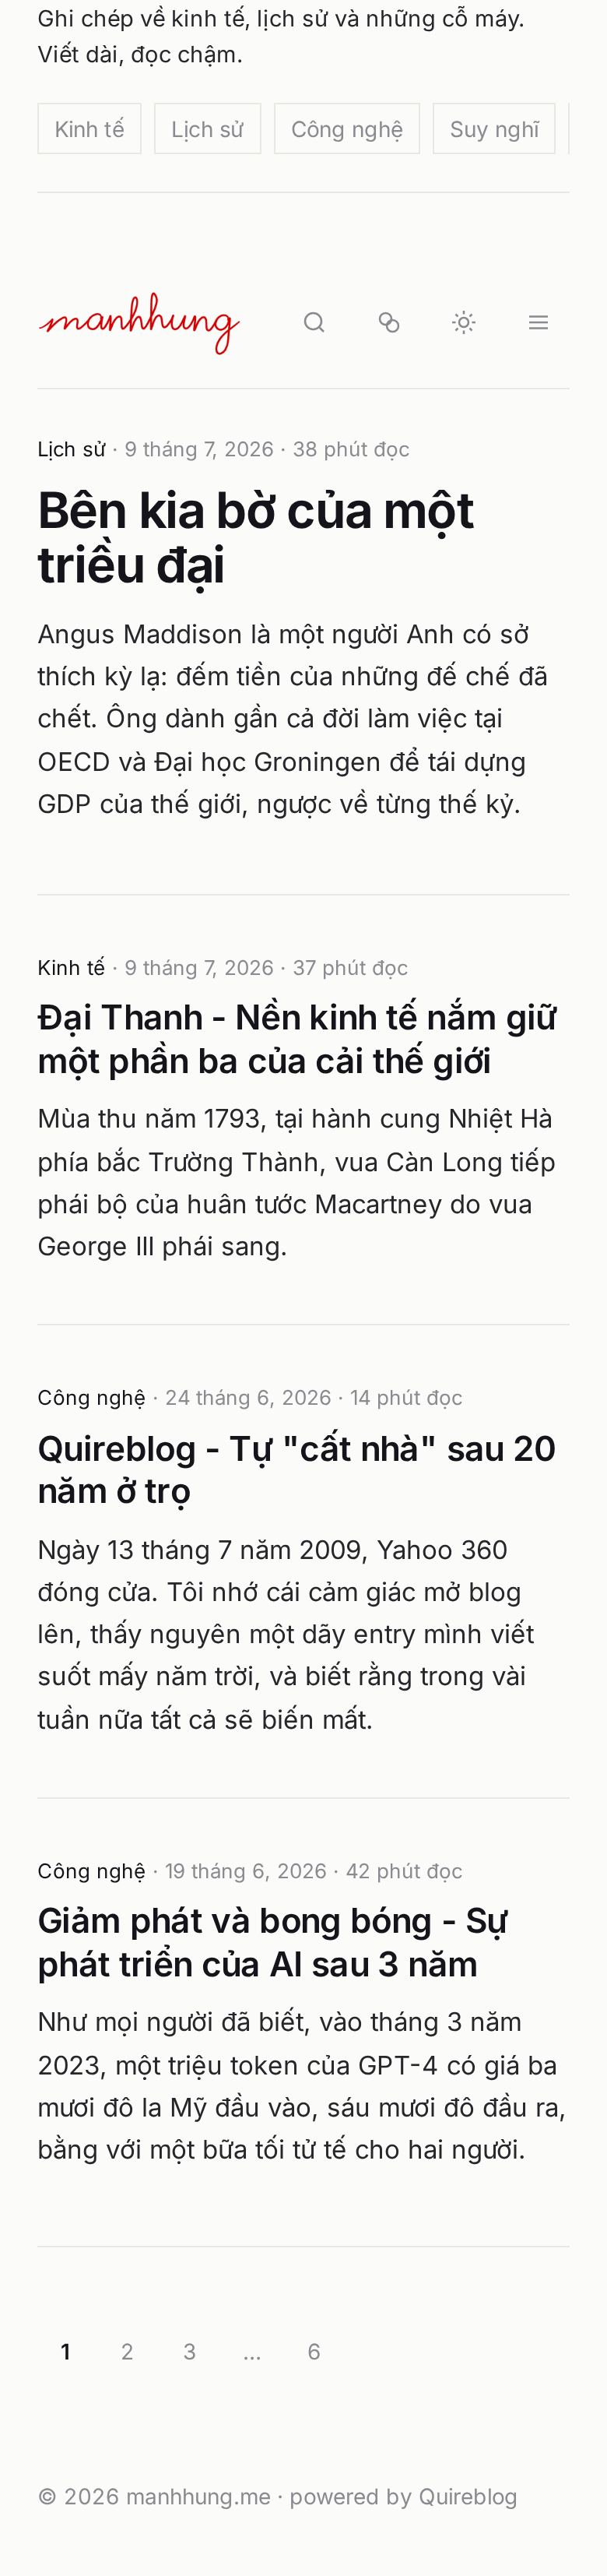
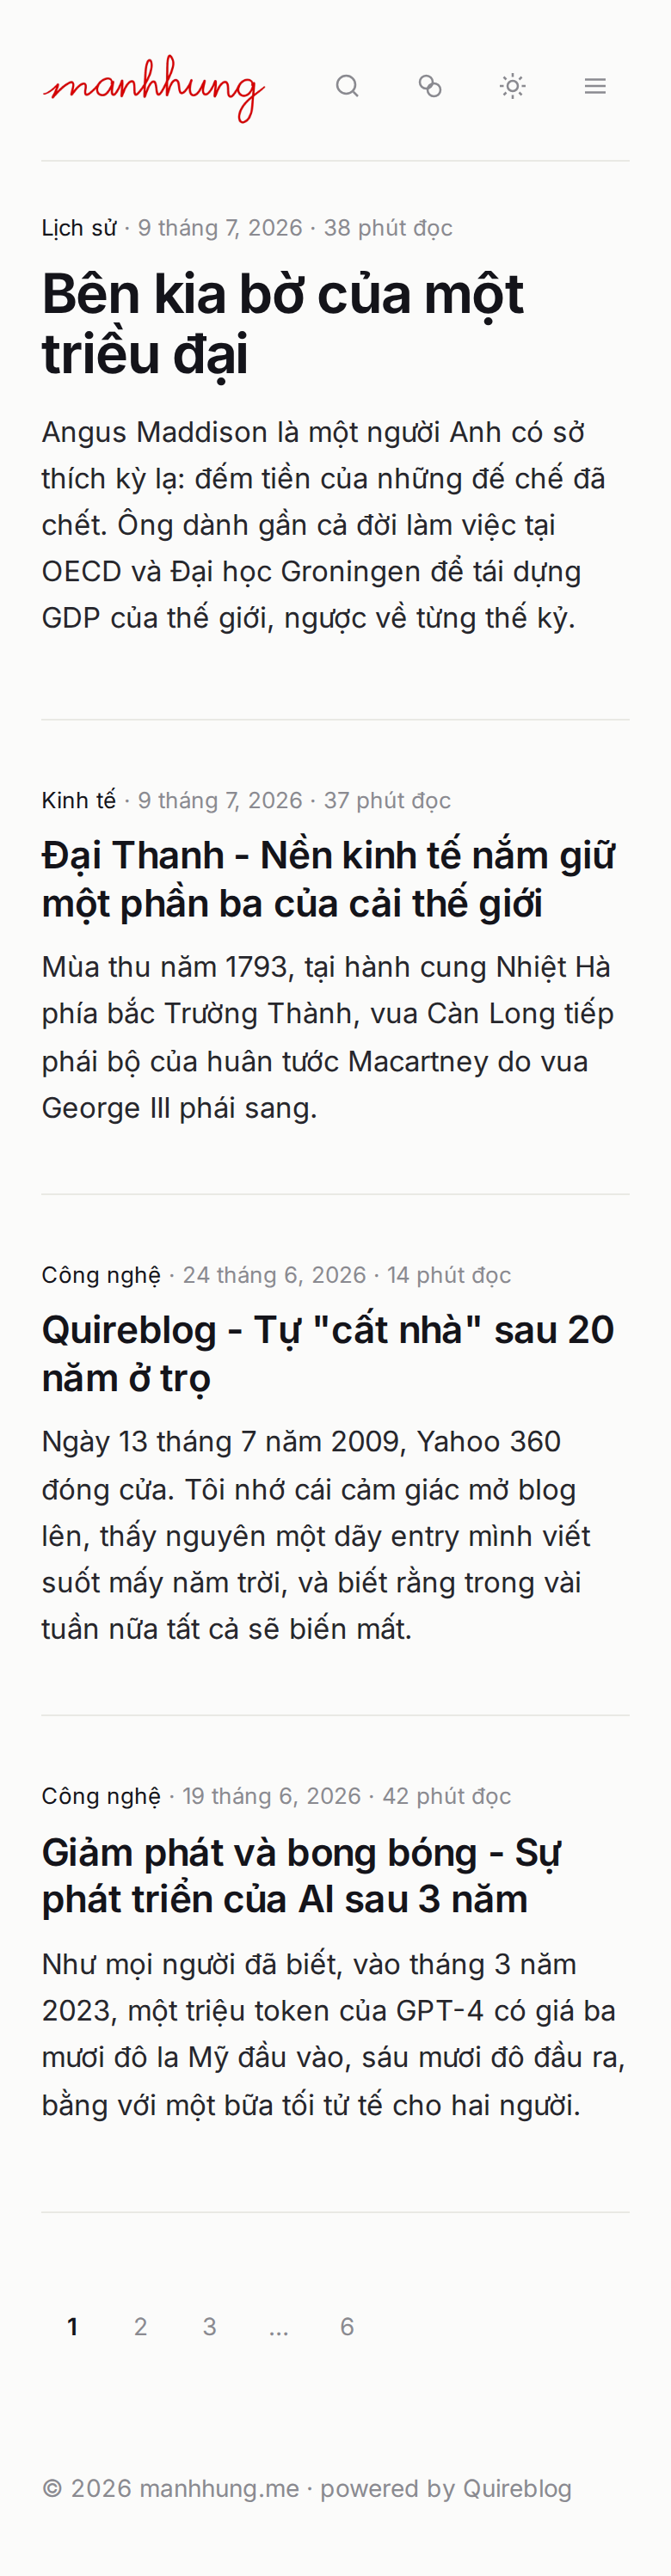
preview: rail into the menu on phones, no site description, top-aligned rail
Below 1280px the rail is gone: categories, tags and the table of contents ride
behind the menu button. Drop the home tagline. Anchor the rail to the content,
not the masthead, so its first line is level with the article's first line.
Adds a top-vs-middle comparison shot.

diff --git a/mockup/home.html b/mockup/home.html
@@ -9,16 +9,58 @@
 <body>
 <div class="page">
 
-  <aside class="rail">
-    <div class="rail-inner">
-      <p class="tagline">Ghi chép về kinh tế, lịch sử và những cỗ máy. Viết dài, đọc chậm.</p>
 
-      <nav class="cats-scroll" aria-label="Danh mục">
-        <a href="#">Kinh tế</a><a href="#">Lịch sử</a><a href="#">Công nghệ</a>
-        <a href="#">Suy nghĩ</a><a href="#">Sưu tầm</a><a href="#">Đèn pin</a>
-        <a href="#">NAS lưu trữ</a><a href="#">In 3D</a><a href="#">Lego</a>
+  <header class="masthead">
+    <a href="/"><img src="assets/logo.webp" alt="manhhung"></a>
+    <div class="icons">
+      <button aria-label="Tìm kiếm"><svg viewBox="0 0 24 24" fill="none" stroke="currentColor" stroke-width="1.7"><circle cx="11" cy="11" r="7"/><path d="m20 20-3.5-3.5"/></svg></button>
+      <button aria-label="Bảng màu"><svg viewBox="0 0 24 24" fill="none" stroke="currentColor" stroke-width="1.7"><circle cx="9" cy="9" r="5"/><circle cx="15" cy="15" r="5"/></svg></button>
+      <button aria-label="Giao diện"><svg viewBox="0 0 24 24" fill="none" stroke="currentColor" stroke-width="1.7"><circle cx="12" cy="12" r="4"/><path d="M12 2v3M12 19v3M2 12h3M19 12h3M5 5l2 2M17 17l2 2M19 5l-2 2M7 17l-2 2"/></svg></button>
+      <button aria-label="Menu" id="menu"><svg viewBox="0 0 24 24" fill="none" stroke="currentColor" stroke-width="1.7"><path d="M4 7h16M4 12h16M4 17h16"/></svg></button>
+    </div>
+  </header>
+  <hr class="rule-full">
+
+  <!-- Phones: menu, categories and tags live here, behind the menu button. -->
+  <div class="drawer" id="drawer">
+    <div class="drawer-inner">
+      <nav class="links">
+        <a href="#">Trang chủ</a>
+        <a href="#">Giới thiệu</a>
+        <a href="#">Lưu trữ</a>
       </nav>
 
+      <div class="block">
+        <h2>Danh mục</h2>
+        <ul>
+          <li><a href="#">Kinh tế<span class="n">7</span></a></li>
+          <li><a href="#">Lịch sử<span class="n">6</span></a></li>
+          <li><a href="#">Công nghệ<span class="n">12</span></a></li>
+          <li><a href="#">Suy nghĩ<span class="n">5</span></a></li>
+          <li><a href="#">Sưu tầm<span class="n">4</span></a></li>
+          <li><a href="#">Đèn pin<span class="n">9</span></a></li>
+          <li><a href="#">NAS lưu trữ<span class="n">3</span></a></li>
+          <li><a href="#">In 3D<span class="n">2</span></a></li>
+          <li><a href="#">Lego<span class="n">2</span></a></li>
+        </ul>
+      </div>
+
+      <div class="block">
+        <h2>Thẻ</h2>
+        <div class="tags">
+          <a href="#">kinh tế</a><a href="#">lịch sử</a><a href="#">châu á</a>
+          <a href="#">chiến tranh</a><a href="#">đầu tư</a><a href="#">công nghệ</a>
+          <a href="#">máy chủ</a><a href="#">backup</a><a href="#">synology</a>
+          <a href="#">docker</a><a href="#">năng lượng</a><a href="#">thị trường</a>
+          <a href="#">việt nam</a><a href="#">cuộc sống</a><a href="#">sáng tạo</a>
+        </div>
+      </div>
+    </div>
+  </div>
+
+  <div class="with-rail">
+  <aside class="rail">
+    <div class="rail-inner">
       <div class="block">
         <h2>Danh mục</h2>
         <ul>
@@ -46,17 +88,6 @@
       </div>
     </div>
   </aside>
-
-  <header class="masthead">
-    <a href="/"><img src="assets/logo.webp" alt="manhhung"></a>
-    <div class="icons">
-      <button aria-label="Tìm kiếm"><svg viewBox="0 0 24 24" fill="none" stroke="currentColor" stroke-width="1.7"><circle cx="11" cy="11" r="7"/><path d="m20 20-3.5-3.5"/></svg></button>
-      <button aria-label="Bảng màu"><svg viewBox="0 0 24 24" fill="none" stroke="currentColor" stroke-width="1.7"><circle cx="9" cy="9" r="5"/><circle cx="15" cy="15" r="5"/></svg></button>
-      <button aria-label="Giao diện"><svg viewBox="0 0 24 24" fill="none" stroke="currentColor" stroke-width="1.7"><circle cx="12" cy="12" r="4"/><path d="M12 2v3M12 19v3M2 12h3M19 12h3M5 5l2 2M17 17l2 2M19 5l-2 2M7 17l-2 2"/></svg></button>
-      <button aria-label="Menu"><svg viewBox="0 0 24 24" fill="none" stroke="currentColor" stroke-width="1.7"><path d="M4 7h16M4 12h16M4 17h16"/></svg></button>
-    </div>
-  </header>
-  <hr class="rule-full">
 
   <main>
     <article class="lead">
@@ -87,8 +118,12 @@
       <a href="#" class="is-active">1</a><a href="#">2</a><a href="#">3</a><a href="#">…</a><a href="#">6</a>
     </nav>
   </main>
+  </div>
 
   <footer class="foot">© 2026 manhhung.me · powered by Quireblog</footer>
 </div>
+<script>
+  menu.onclick = () => drawer.classList.toggle('is-open')
+</script>
 </body>
 </html>

diff --git a/mockup/post.html b/mockup/post.html
@@ -9,6 +9,51 @@
 <body>
 <div class="page">
 
+
+  <header class="masthead">
+    <a href="/"><img src="assets/logo.webp" alt="manhhung"></a>
+    <div class="icons">
+      <button aria-label="Tìm kiếm"><svg viewBox="0 0 24 24" fill="none" stroke="currentColor" stroke-width="1.7"><circle cx="11" cy="11" r="7"/><path d="m20 20-3.5-3.5"/></svg></button>
+      <button aria-label="Bảng màu"><svg viewBox="0 0 24 24" fill="none" stroke="currentColor" stroke-width="1.7"><circle cx="9" cy="9" r="5"/><circle cx="15" cy="15" r="5"/></svg></button>
+      <button aria-label="Giao diện"><svg viewBox="0 0 24 24" fill="none" stroke="currentColor" stroke-width="1.7"><circle cx="12" cy="12" r="4"/><path d="M12 2v3M12 19v3M2 12h3M19 12h3M5 5l2 2M17 17l2 2M19 5l-2 2M7 17l-2 2"/></svg></button>
+      <button aria-label="Menu" id="menu"><svg viewBox="0 0 24 24" fill="none" stroke="currentColor" stroke-width="1.7"><path d="M4 7h16M4 12h16M4 17h16"/></svg></button>
+    </div>
+  </header>
+  <hr class="rule-full">
+
+  <!-- Phones: the table of contents rides in the menu too. -->
+  <div class="drawer" id="drawer">
+    <div class="drawer-inner">
+      <nav class="links">
+        <a href="#">Trang chủ</a>
+        <a href="#">Giới thiệu</a>
+        <a href="#">Lưu trữ</a>
+      </nav>
+
+      <div class="block">
+        <h2>Mục lục</h2>
+        <ul>
+          <li><a href="#">Đo lường một sự phồn vinh, và đọc con số cho đúng</a></li>
+          <li><a href="#">Cuộc cách mạng lặng lẽ của các loại cây lương thực</a></li>
+          <li><a href="#">Một nền kinh tế thị trường mà không có chủ nghĩa tư bản</a></li>
+          <li><a href="#">Bạc, và nhà Thanh trong dòng chảy của cả thế giới</a></li>
+          <li><a href="#">Đế chế khổng lồ, bộ máy thu tiền tí hon</a></li>
+          <li><a href="#">Đỉnh cao của tăng trưởng theo bề rộng</a></li>
+          <li><a href="#">1793, và cái bóng của một tương lai vô định</a></li>
+          <li><a href="#">Nguồn tham khảo</a></li>
+        </ul>
+      </div>
+
+      <div class="block">
+        <h2>Thẻ</h2>
+        <div class="tags">
+          <a href="#">kinh tế</a><a href="#">lịch sử</a><a href="#">châu á</a><a href="#">thị trường</a>
+        </div>
+      </div>
+    </div>
+  </div>
+
+  <div class="with-rail">
   <aside class="rail">
     <div class="rail-inner">
       <div class="block">
@@ -34,17 +79,6 @@
     </div>
   </aside>
 
-  <header class="masthead">
-    <a href="/"><img src="assets/logo.webp" alt="manhhung"></a>
-    <div class="icons">
-      <button aria-label="Tìm kiếm"><svg viewBox="0 0 24 24" fill="none" stroke="currentColor" stroke-width="1.7"><circle cx="11" cy="11" r="7"/><path d="m20 20-3.5-3.5"/></svg></button>
-      <button aria-label="Bảng màu"><svg viewBox="0 0 24 24" fill="none" stroke="currentColor" stroke-width="1.7"><circle cx="9" cy="9" r="5"/><circle cx="15" cy="15" r="5"/></svg></button>
-      <button aria-label="Giao diện"><svg viewBox="0 0 24 24" fill="none" stroke="currentColor" stroke-width="1.7"><circle cx="12" cy="12" r="4"/><path d="M12 2v3M12 19v3M2 12h3M19 12h3M5 5l2 2M17 17l2 2M19 5l-2 2M7 17l-2 2"/></svg></button>
-      <button aria-label="Menu"><svg viewBox="0 0 24 24" fill="none" stroke="currentColor" stroke-width="1.7"><path d="M4 7h16M4 12h16M4 17h16"/></svg></button>
-    </div>
-  </header>
-  <hr class="rule-full">
-
   <main>
     <article>
       <header class="post-head">
@@ -69,8 +103,12 @@
       </div>
     </article>
   </main>
+  </div>
 
   <footer class="foot">© 2026 manhhung.me · powered by Quireblog</footer>
 </div>
+<script>
+  menu.onclick = () => drawer.classList.toggle('is-open')
+</script>
 </body>
 </html>

diff --git a/mockup/style.css b/mockup/style.css
@@ -21,6 +21,7 @@
   --col: 680px;   /* the reading column, always centred on the page */
   --rail: 200px;  /* floats in the left gutter, never displaces the column */
   --gutter: 60px; /* gap between rail and column */
+  --content-top: 48px; /* space between the masthead rule and the first line of content */
 }
 
 *, *::before, *::after { border-radius: 0; box-sizing: border-box; margin: 0; padding: 0; }
@@ -38,11 +39,14 @@ a { color: inherit; text-decoration: none; }
 /* The ONE centred column. Masthead, content and footer all share its width, so
    the page reads as a single centred axis no matter what the rail does. */
 .page {
-  position: relative;
   max-width: var(--col);
   margin: 0 auto;
   padding: 0 24px;
 }
+
+/* Containing block for the rail. It wraps ONLY the content, so the rail's first
+   line starts level with the article's first line, not with the masthead. */
+.with-rail { position: relative; }
 
 /* ---- Masthead ---- */
 .masthead {
@@ -64,10 +68,10 @@ a { color: inherit; text-decoration: none; }
    No border, no shadow, no panel. It is typography sitting on the page. ---- */
 .rail {
   position: absolute;
-  top: 0;
+  top: var(--content-top);           /* first rail line sits level with the article's first line */
   right: calc(100% + var(--gutter)); /* right edge sits one gutter left of the column */
   width: var(--rail);
-  height: 100%;                      /* gives the sticky child room to travel */
+  height: calc(100% - var(--content-top)); /* room for the sticky child to travel */
 }
 .rail-inner {
   position: sticky;
@@ -75,11 +79,9 @@ a { color: inherit; text-decoration: none; }
   font-size: 14px;
   line-height: 1.5;
 }
-.rail .tagline {
-  color: var(--text); font-size: 14.5px; line-height: 1.6;
-  padding: 0 0 20px 14px; margin-bottom: 20px;
-  border-bottom: 1px solid var(--rule);
-}
+/* Variant under test: rail pinned to the vertical middle instead of the top. */
+body.rail-center .rail-inner { top: 50%; transform: translateY(-50%); }
+
 .rail h2 { font-size: 13px; font-weight: 600; color: var(--heading); margin-bottom: 12px; }
 .rail .block + .block { margin-top: 28px; }
 .rail ul { list-style: none; }
@@ -106,7 +108,7 @@ a { color: inherit; text-decoration: none; }
 .tags a:hover { color: var(--heading); text-decoration: underline; text-underline-offset: 3px; text-decoration-color: var(--accent); }
 
 /* ---- Reading column ---- */
-main { padding-top: 48px; }
+main { padding-top: var(--content-top); }
 .eyebrow { font-size: 13px; color: var(--meta); }
 .eyebrow .cat { color: var(--heading); }
 
@@ -145,25 +147,33 @@ main { padding-top: 48px; }
 
 .foot { padding: 64px 0 40px; color: var(--meta); font-size: 14px; }
 
+/* ---- Drawer: on phones the whole rail lives behind the menu button ---- */
+.drawer { display: none; }
+.drawer.is-open { display: block; }
+.drawer-inner { padding: 24px 0 8px; border-top: 1px solid var(--rule); }
+.drawer nav.links { margin-bottom: 28px; }
+.drawer nav.links a { display: block; font-size: 17px; color: var(--heading); padding: 8px 0; }
+.drawer .block + .block { margin-top: 28px; }
+.drawer h2 { font-size: 13px; font-weight: 600; color: var(--heading); margin-bottom: 12px; }
+.drawer ul { list-style: none; }
+.drawer li a {
+  display: flex; justify-content: space-between; gap: 10px;
+  color: var(--meta); padding: 7px 0; min-height: 44px; align-items: center;
+}
+.drawer .tags { display: flex; flex-wrap: wrap; gap: 8px 14px; padding: 0; }
+.drawer .tags a { color: var(--meta); font-size: 14px; padding: 4px 0; }
+
 /* The rail only exists when the gutter can actually hold it:
-   680 column + 2 x (216 rail + 64 gutter) = 1240, plus breathing room. */
+   680 column + 2 x (200 rail + 60 gutter) = 1200, plus breathing room. */
 @media (max-width: 1279px) {
-  .rail {
-    position: static; width: auto; height: auto;
-    margin-bottom: 32px; padding-bottom: 24px; border-bottom: 1px solid var(--rule);
-  }
-  .rail-inner { position: static; }
+  /* Phones show none of it inline. Categories, tags and the table of contents
+     all move behind the menu button. */
+  .rail { display: none; }
   main { padding-top: 28px; }
-  .rail .tagline { border: 0; padding: 0; margin: 0 0 20px; }
-  /* Phones get the tagline plus a horizontal category scroller; the full list
-     and the tag cloud are rail furniture. */
-  .rail .block { display: none; }
-  .cats-scroll { display: flex; gap: 8px; overflow-x: auto; scrollbar-width: none; }
-  .cats-scroll a { border: 1px solid var(--rule); padding: 5px 10px; white-space: nowrap; color: var(--meta); }
   .masthead img { width: 132px; }
   .lead h1 { font-size: 32px; max-width: none; }
   .entry h2 { font-size: 22px; }
   .post-head h1 { font-size: 31px; max-width: none; }
   .lead p.excerpt, .entry p.excerpt { font-size: 16.5px; }
 }
-@media (min-width: 1280px) { .cats-scroll { display: none; } }
+@media (min-width: 1280px) { .drawer { display: none !important; } }

diff --git a/README.md b/README.md
@@ -6,14 +6,14 @@ The reading column stays **centred on the page**, exactly as today. The rail is
 absolutely placed in the left gutter and never displaces it, and it sticks as
 you scroll. It carries no border, no shadow and no background: it is typography
 sitting on the page, not a panel. On a post it holds the table of contents; on
-the home page it holds the tagline, the categories and the tags.
+the home page it holds the categories and the tags.
 
 Other changes: a display-size lead post, a category label on every entry, a
 full-width divider replacing the 50% stub, a deck line under post titles, and
 the logo red `#d80000` echoed as the single accent (the marker beside the active
 rail row, and the title hover underline).
 
-The signature logo is kept as-is.
+The signature logo is kept as-is. No site description on the home page.
 
 ## Desktop, 1280px
 
@@ -26,21 +26,34 @@ Post
 Post, scrolled 1000px. The rail stays with you, the active section is marked.
 ![post scrolled](shots/post_scrolled.png)
 
+## Rail alignment: top vs middle
+
+Top. The rail's first line sits exactly level with the article's first line
+(measured: both at y=154). The rail reads as a companion to the text.
+![rail top](shots/cmp_top_0.png)
+
+Middle. The rail hangs in the vertical centre, level with nothing. It also
+overflows once a post has enough headings to exceed the viewport.
+![rail centre](shots/cmp_center_0.png)
+
 ## Mobile, 390px
 
-Below 1280px the gutter cannot hold the rail, so it unstacks to the top:
-tagline plus a horizontal category scroller.
+Below 1280px the gutter cannot hold the rail, so it disappears entirely.
+Categories, tags and the table of contents all move behind the menu button.
 
-Home
+Home, menu closed
 ![home mobile](shots/home_m.png)
 
-Post
-![post mobile](shots/post_m.png)
+Home, menu open
+![home mobile menu](shots/home_m_menu.png)
+
+Post, menu open
+![post mobile menu](shots/post_m_menu.png)
 
 ## Source
 
 `mockup/` is self-contained. Open `mockup/home.html` in a browser to hover the
-accent and resize the window. Fonts and logo are copied from production.
+accent, resize the window and toggle the mobile menu.
 
 This is an orphan branch: it carries only the preview, no Quire source. Delete
 it once the direction is settled.